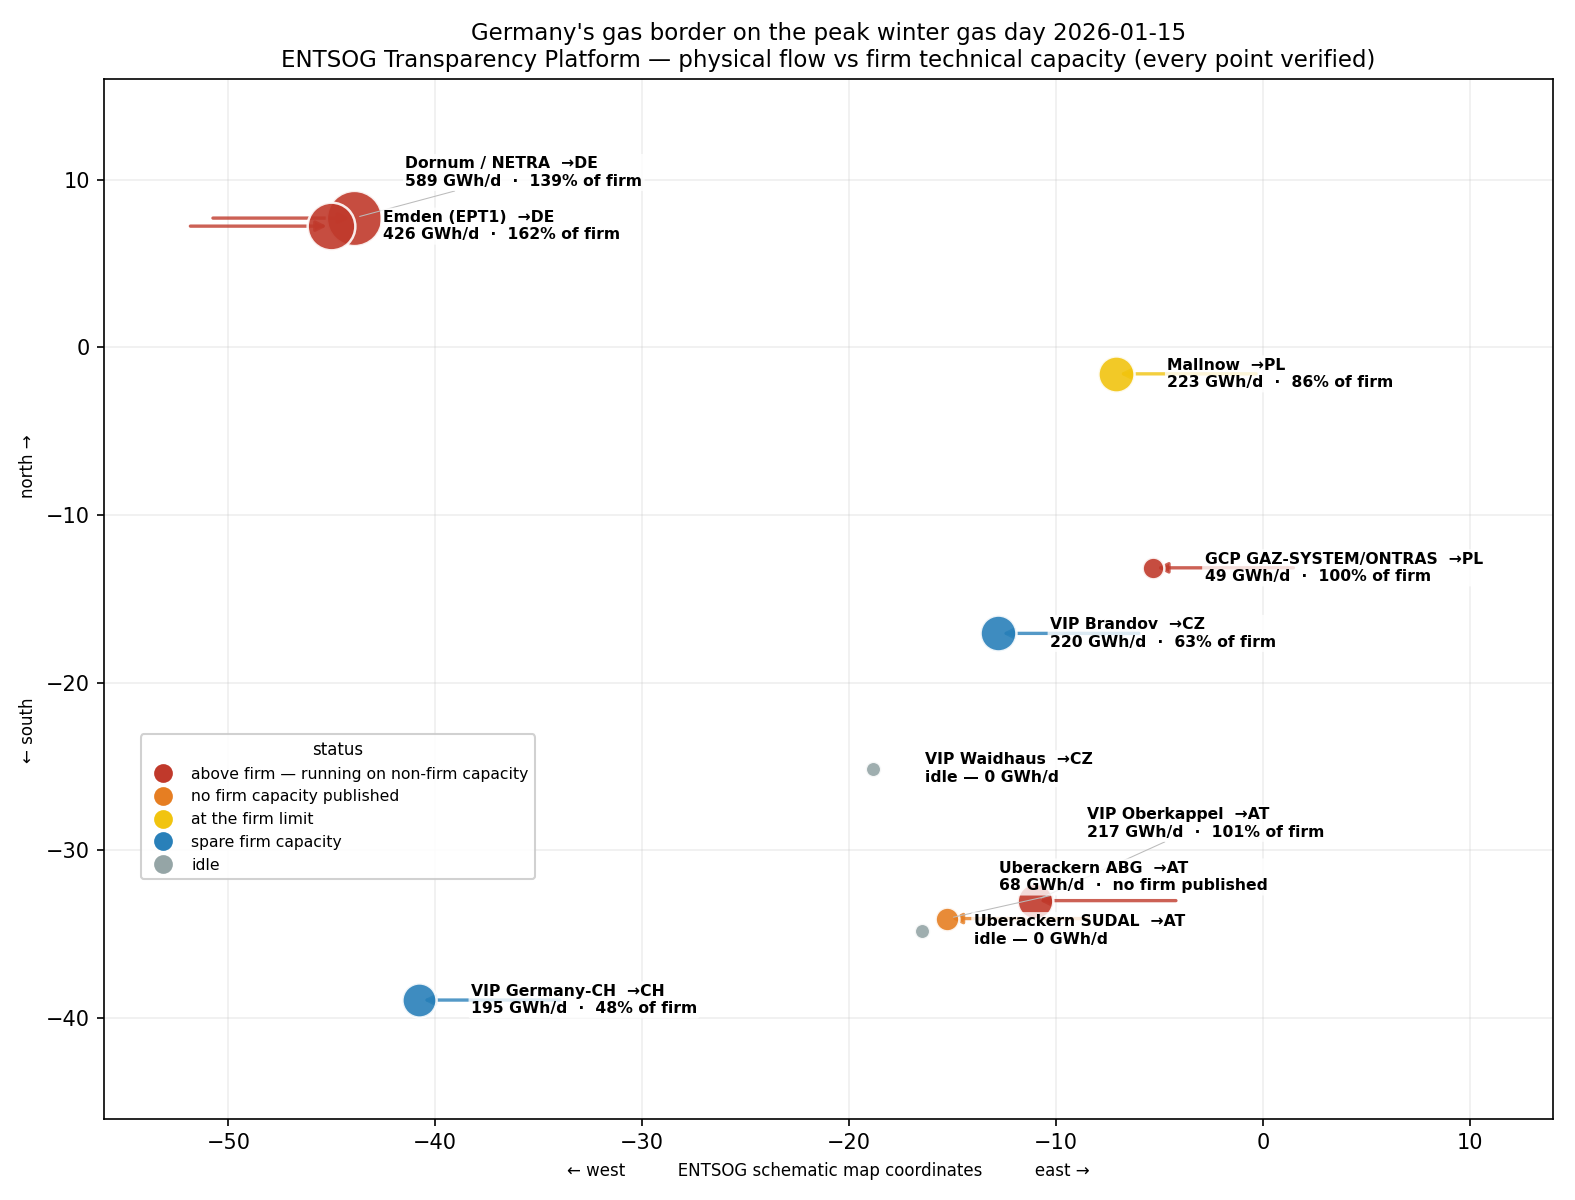
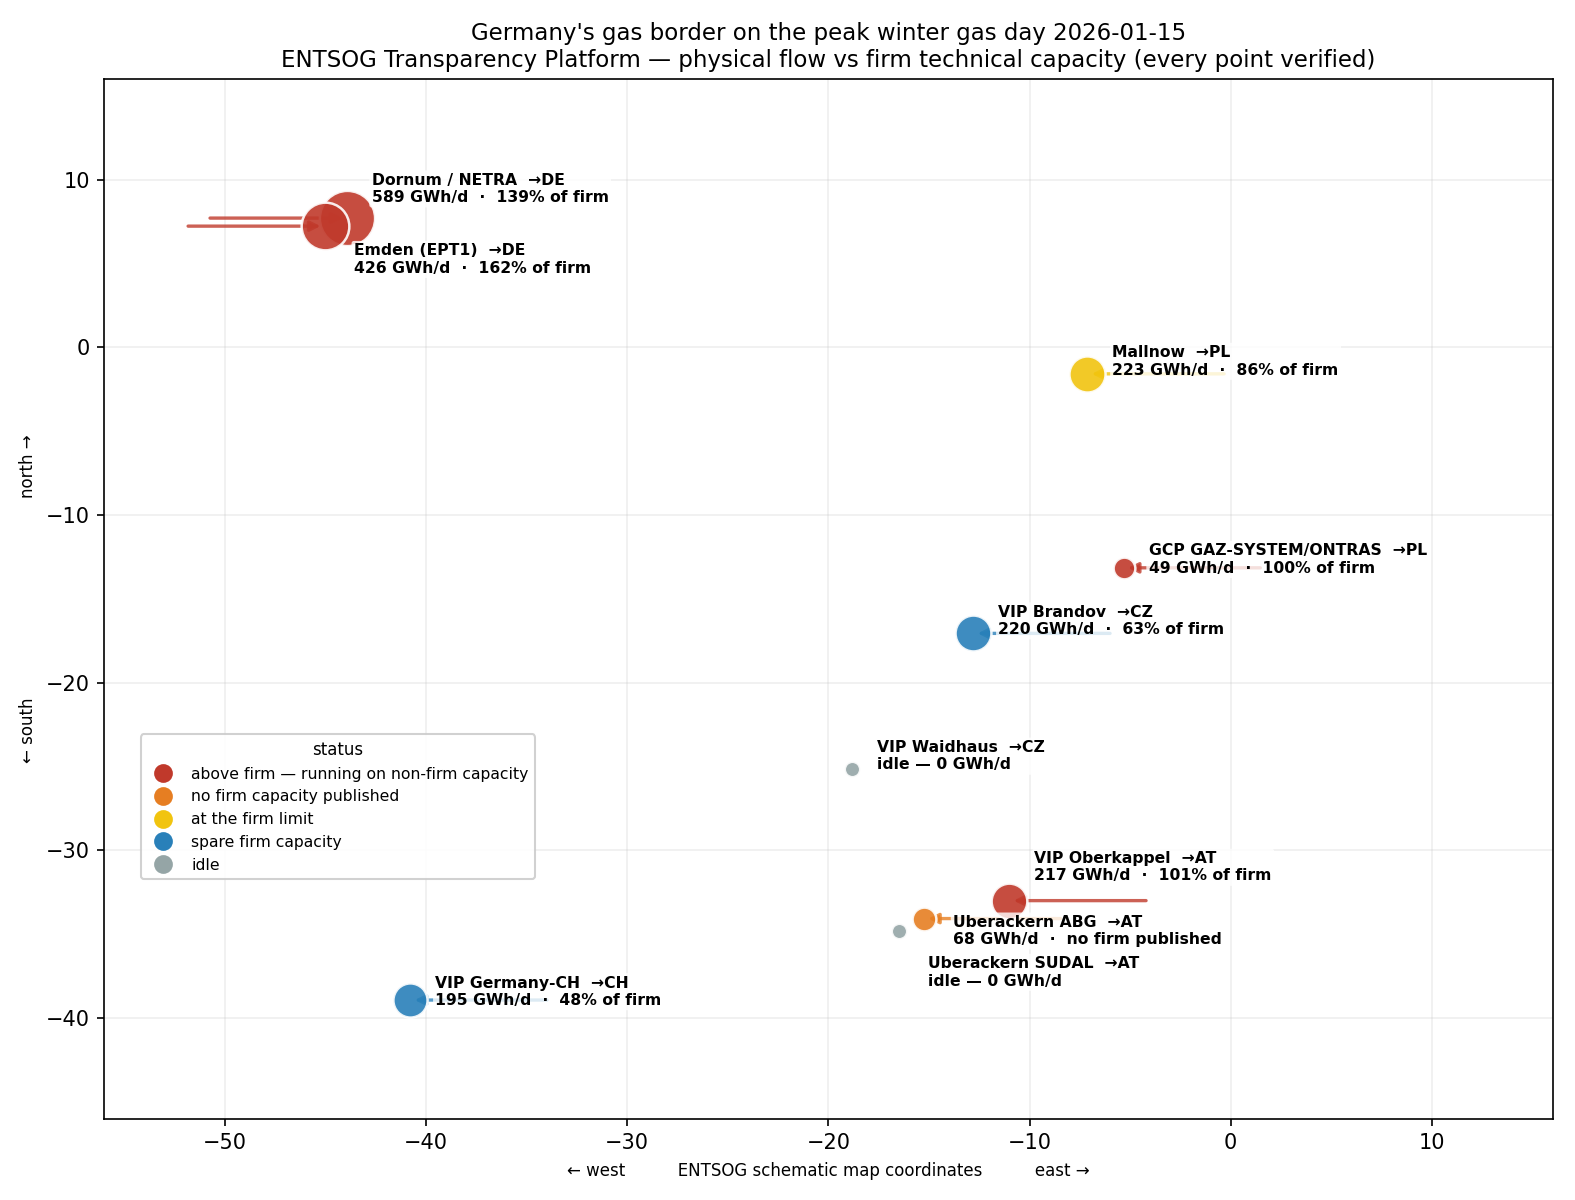
Network map: fixed label offsets, drop leader lines that crossed other numbers

diff --git a/src/network_chart.py b/src/network_chart.py
@@ -8,8 +8,20 @@ import entsog, network as N
 
 ROOT = os.path.dirname(os.path.dirname(os.path.abspath(__file__)))
 OUT = os.path.join(ROOT, "results")
-OFFSET = {"Emden (EPT1)": (-34, -30), "Dornum / NETRA": (10, 12),
-          "Uberackern ABG": (-40, -22), "VIP Oberkappel": (10, 4)}
+# label offset per point (in points), tuned so nothing overlaps and no leader line is needed
+OFFSET = {
+    "Dornum / NETRA":        (12, 14),
+    "Emden (EPT1)":          (14, -16),
+    "Mallnow":               (12, 6),
+    "GCP GAZ-SYSTEM/ONTRAS": (12, 4),
+    "VIP Brandov":           (12, 6),
+    "VIP Waidhaus":          (12, 6),
+    "VIP Oberkappel":        (12, 16),
+    "Uberackern ABG":        (14, -6),
+    "Uberackern SUDAL":      (14, -20),
+    "VIP Germany-CH":        (12, 4),
+}
+
 COL = {"above firm — running on non-firm capacity": "#c0392b",
        "no firm capacity published": "#e67e22",
        "at the firm limit": "#f1c40f",
@@ -39,10 +51,7 @@ def draw():
     snap = entsog.snapshot()
     fig, ax = plt.subplots(figsize=(10.5, 8))
 
-    pts = snap["points"]
-    # spread labels vertically where points sit on top of each other
-    ys = _declutter([p["y"] for p in pts], 3.2, -46, 16)
-    for p, ytxt in zip(pts, ys):
+    for p in snap["points"]:
         st = N.classify(p)
         flow = p["physical_flow"] / 1e6
         ax.scatter(p["x"], p["y"], s=55 + flow * 1.1, color=COL[st], alpha=.9,
@@ -53,14 +62,9 @@ def draw():
                     ("  ·  %.0f%% of firm" % (u * 100)) if u else "  ·  no firm published")
         else:
             head = "%s  →%s\nidle — 0 GWh/d" % (p["label"], p["to"])
-        # label to the side, with a short leader line only when it had to be nudged
-        dx = 12 if p["x"] > -30 else 12
-        ax.annotate(head, xy=(p["x"], p["y"]),
-                    xytext=(p["x"] + (2.5 if p["x"] > -30 else 2.5), ytxt),
-                    fontsize=7.5, fontweight="bold", va="center",
+        ax.annotate(head, xy=(p["x"], p["y"]), xytext=OFFSET.get(p["label"], (12, 6)),
+                    textcoords="offset points", fontsize=7.5, fontweight="bold", va="center",
                     bbox=dict(boxstyle="round,pad=0.15", fc="white", ec="none", alpha=0.8),
-                    arrowprops=dict(arrowstyle="-", lw=0.5, color="#bbbbbb",
-                                    shrinkA=0, shrinkB=3) if abs(ytxt - p["y"]) > 1.5 else None,
                     zorder=6)
         if flow > 0:
             ax.annotate("", xy=(p["x"], p["y"]),
@@ -77,7 +81,7 @@ def draw():
                for k, c in COL.items()]
     ax.legend(handles=handles, fontsize=7.5, loc="center left", bbox_to_anchor=(0.02, 0.30),
               title="status", title_fontsize=8, framealpha=0.9)
-    ax.grid(alpha=.2); ax.set_xlim(-56, 14); ax.set_ylim(-46, 16)
+    ax.grid(alpha=.2); ax.set_xlim(-56, 16); ax.set_ylim(-46, 16)
     fig.tight_layout(); fig.savefig(os.path.join(OUT, "network_map.png"), dpi=150); plt.close(fig)
 
 